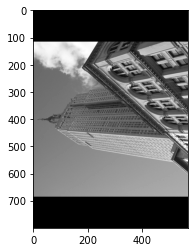
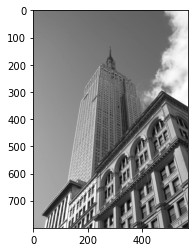
updating article

diff --git a/_posts/Tech/2022-09-21-computer-vision-general-introduction.md b/_posts/Tech/2022-09-21-computer-vision-general-introduction.md
@@ -131,7 +131,7 @@ The region is defined by a 4-tuple, where coordinates are (left, upper, right, l
 | `region = region.transpose(Image.ROTATE_180)` | `region = cv2.transpose(region)` |
 | `pil_im.paste(region, box)` | `cv_im[20:100, 20:80] = region` |
 | `imshow(pil_im, cmap='gray')` | `imshow(cv_im, cmap='gray')` |
-| ![](/images/blog/2022-09-21-computer-vision-general-introduction/pillow_empire_paste.png) | ![](/images/blog/2022-09-21-computer-vision-general-introduction/opencv_empire_transpose.png) |
+| ![image paste](/images/blog/2022-09-21-computer-vision-general-introduction/pillow_empire_paste.png) | ![image paste](/images/blog/2022-09-21-computer-vision-general-introduction/opencv_empire_transpose.png) |
 
 
 ### Resize and Rotate
@@ -142,7 +142,7 @@ To resize an image, call resize() with a tuple giving the new size:
 | ------------ | ----------- |
 | `out = pil_im.resize((128,128))` | `out cv2.resize(cv_im, (128, 128), interpolation=cv2.INTER_AREA)` |
 | `imshow(out, cmap='gray')` | `imshow(out, cmap='gray')` |
-| ![](/images/blog/2022-09-21-computer-vision-general-introduction/pillow_empire_resize.png) | opencv |
+| ![image resize](/images/blog/2022-09-21-computer-vision-general-introduction/pillow_empire_resize.png) | ![image resize](/images/blog/2022-09-21-computer-vision-general-introduction/pillow_empire_resize.png) |
 
 In case of OpenCV and you wondered about the flag, visit the documentation to know more about it, but here are few of them.
 
@@ -155,9 +155,9 @@ To rotate an image, use counterclockwise angles and rotate() like this:
 
 | PILLOW | OpenCV |
 | ------------ | ----------- |
-| `out = pil_im.rotate(90)` | `cv2.rotate(src, cv2.cv2.ROTATE_90_CLOCKWISE)` |
+| `out = pil_im.rotate(90)` | `out = cv2.rotate(cv_im, cv2.ROTATE_90_COUNTERCLOCKWISE)` |
 | `imshow(out, cmap='gray')` | `imshow(out, cmap='gray')` |
-| ![image rotate](/images/blog/2022-09-21-computer-vision-general-introduction/pillow_empire_rotate.png) | opencv |
+| ![image rotate](/images/blog/2022-09-21-computer-vision-general-introduction/pillow_empire_rotate.png) | ![image rotate](/images/blog/2022-09-21-computer-vision-general-introduction/opencv_empire_rotate.png) |
 
 Some examples are shown in Figure 1-1. The leftmost image is the original, followed by a grayscale version, a rotated crop pasted in, and a thumbnail image.
 
